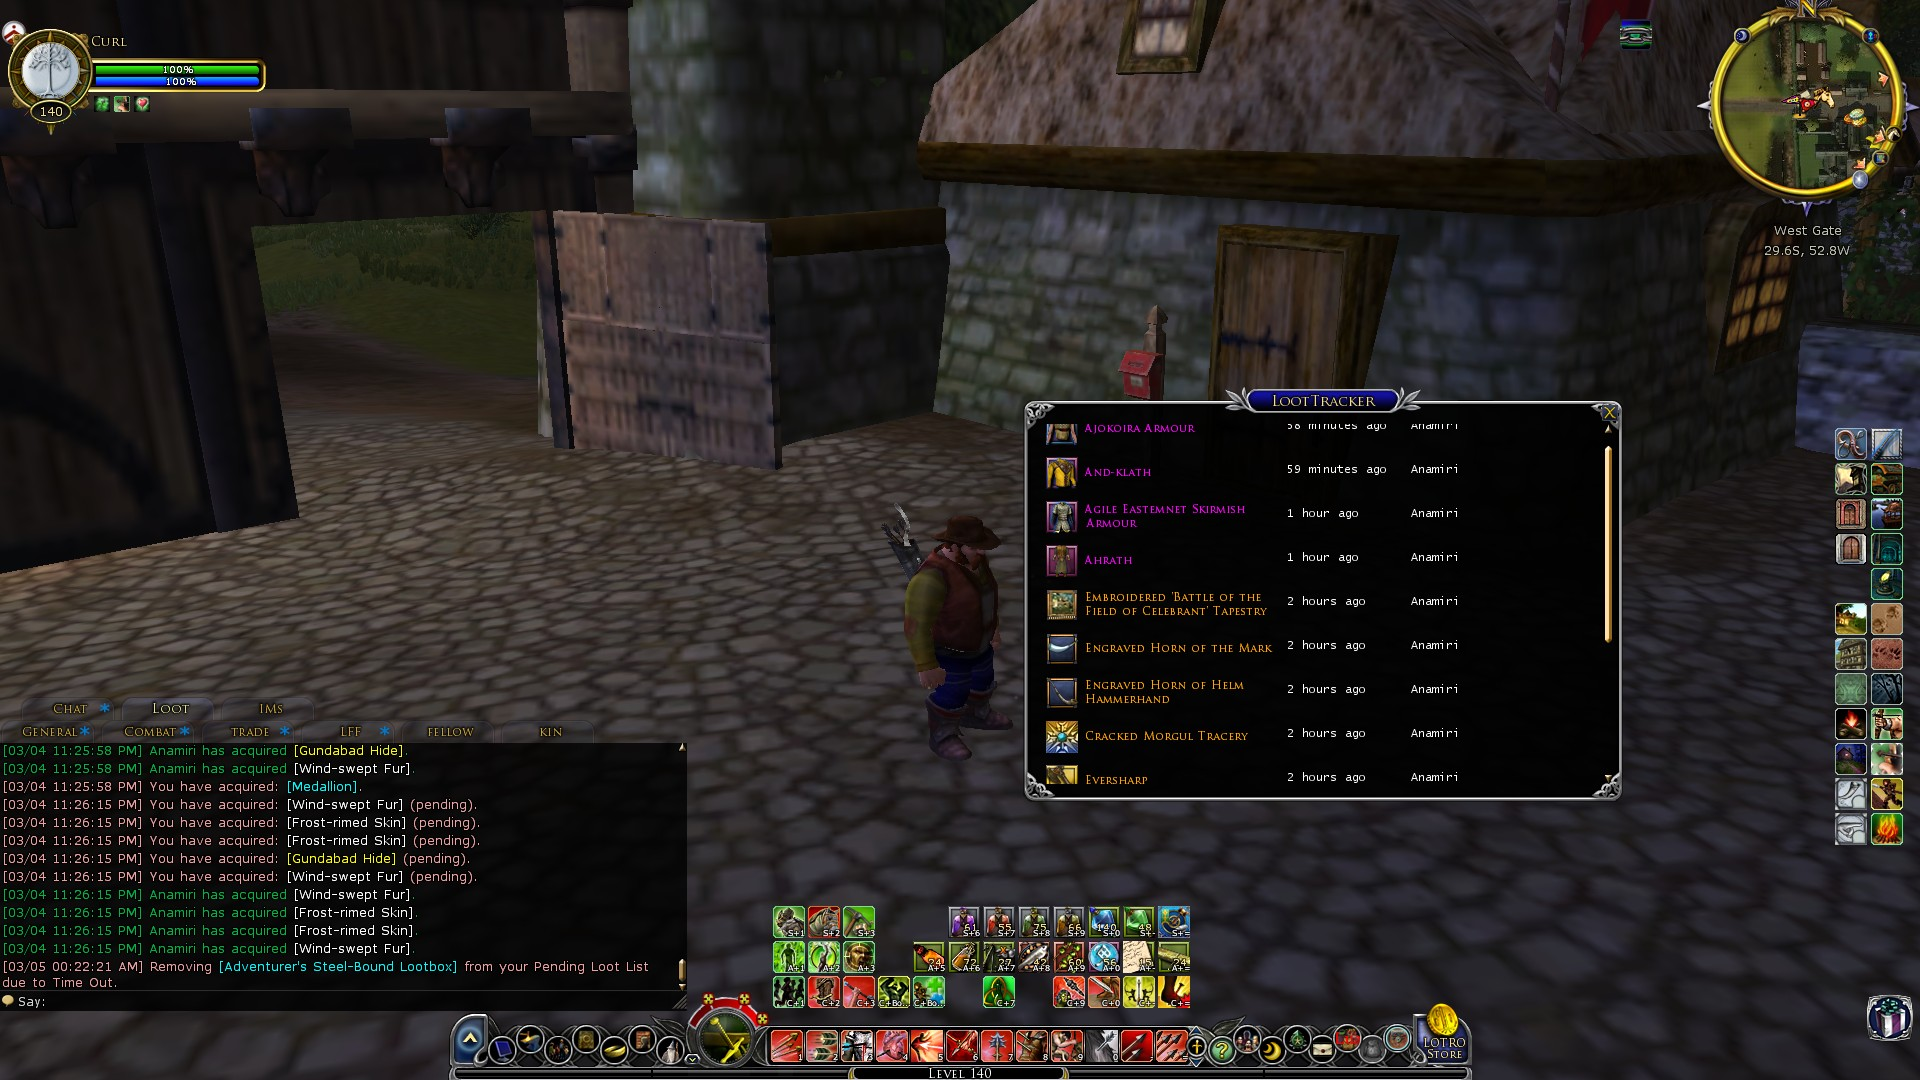
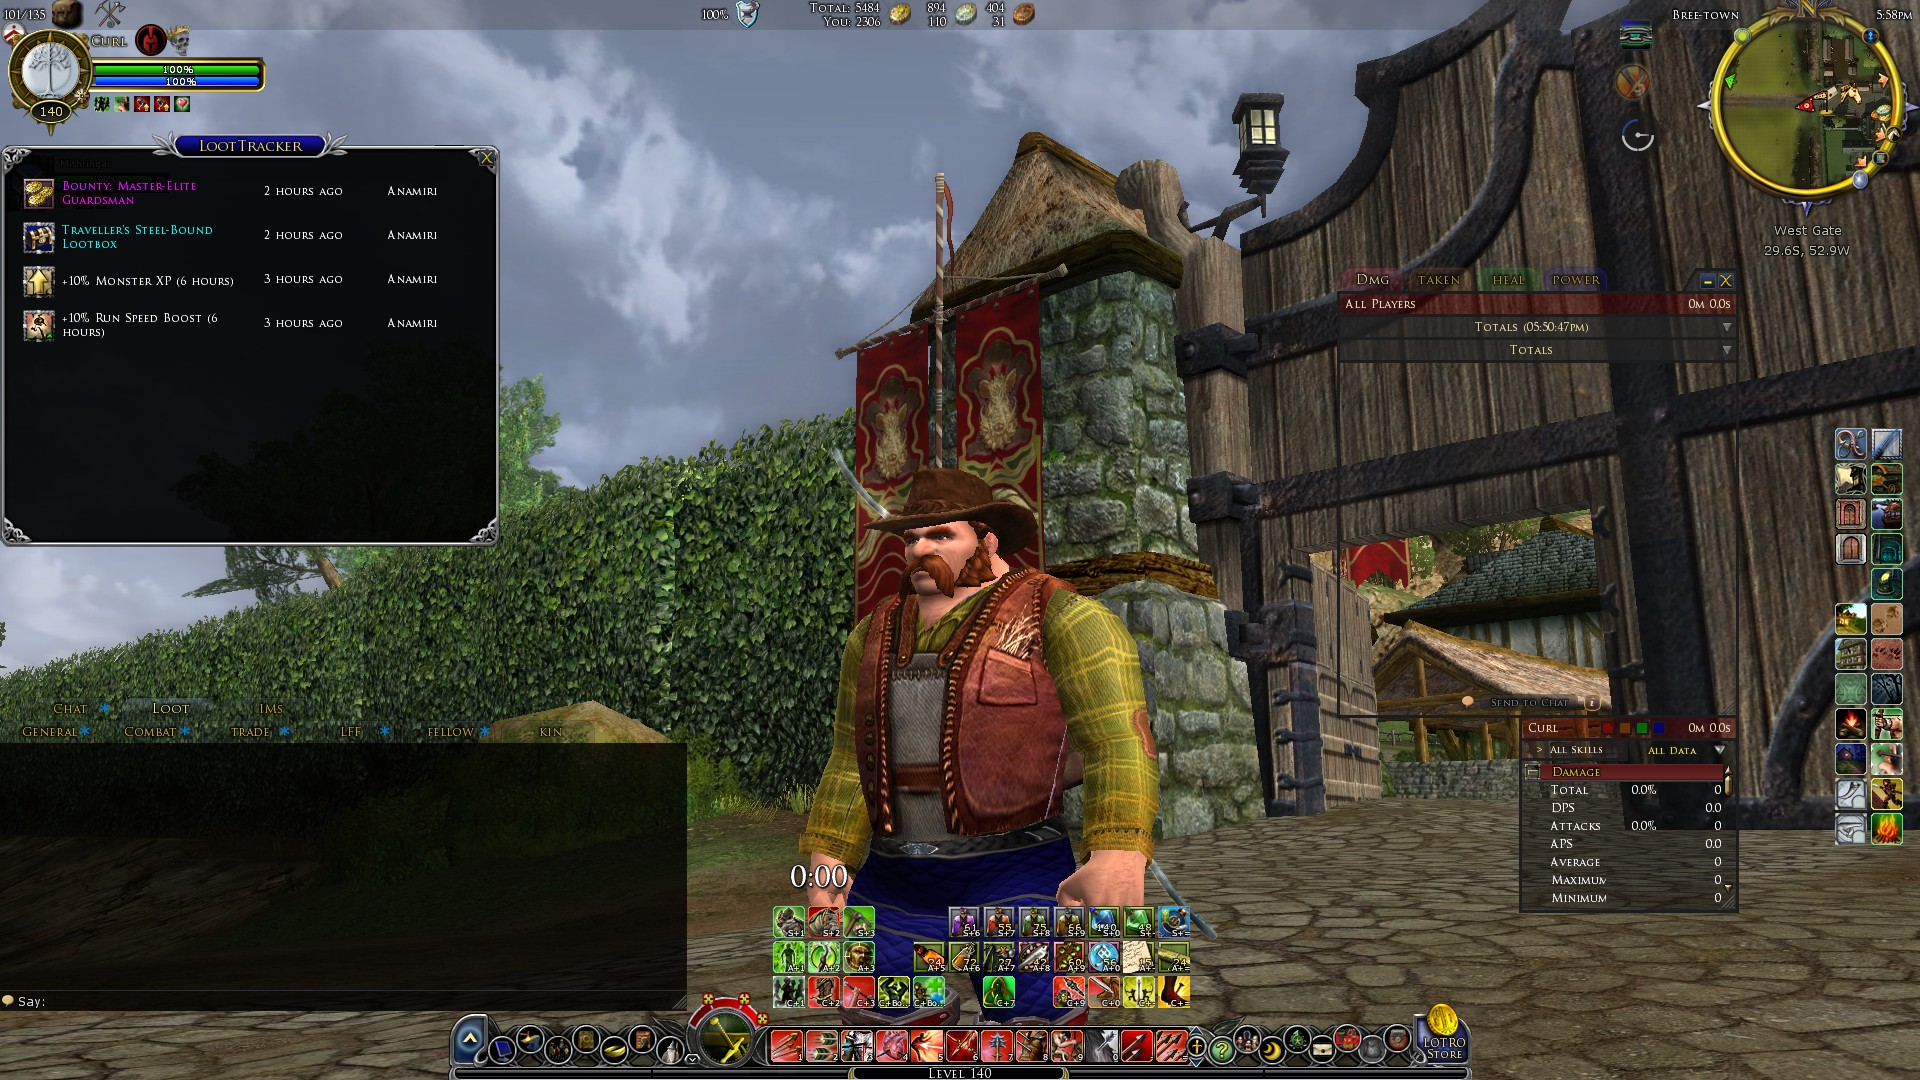
update readme and screenshot

diff --git a/README.md b/README.md
@@ -1,8 +1,14 @@
 # LootTracker
+LootTracker is a fellowship loot track, it shows all itens obtained by loot players.
+
+## Commands:
+    /lt - Open LootTracker window
+
+## Screenshot
 ![Screenshot](./ScreenShot.jpg?raw=true)
 
 ## Youtube Preview
-[![Youtube Preview](https://img.youtube.com/vi/wPskBlRSH6I/0.jpg)](https://www.youtube.com/watch?v=wPskBlRSH6I)
+[![Youtube Preview](https://img.youtube.com/vi/cAv172PBTLU/0.jpg)](https://www.youtube.com/watch?v=cAv172PBTLU)
 
 ## Releases
 [Download releases](https://github.com/joaoneto/LootTracker/releases).
